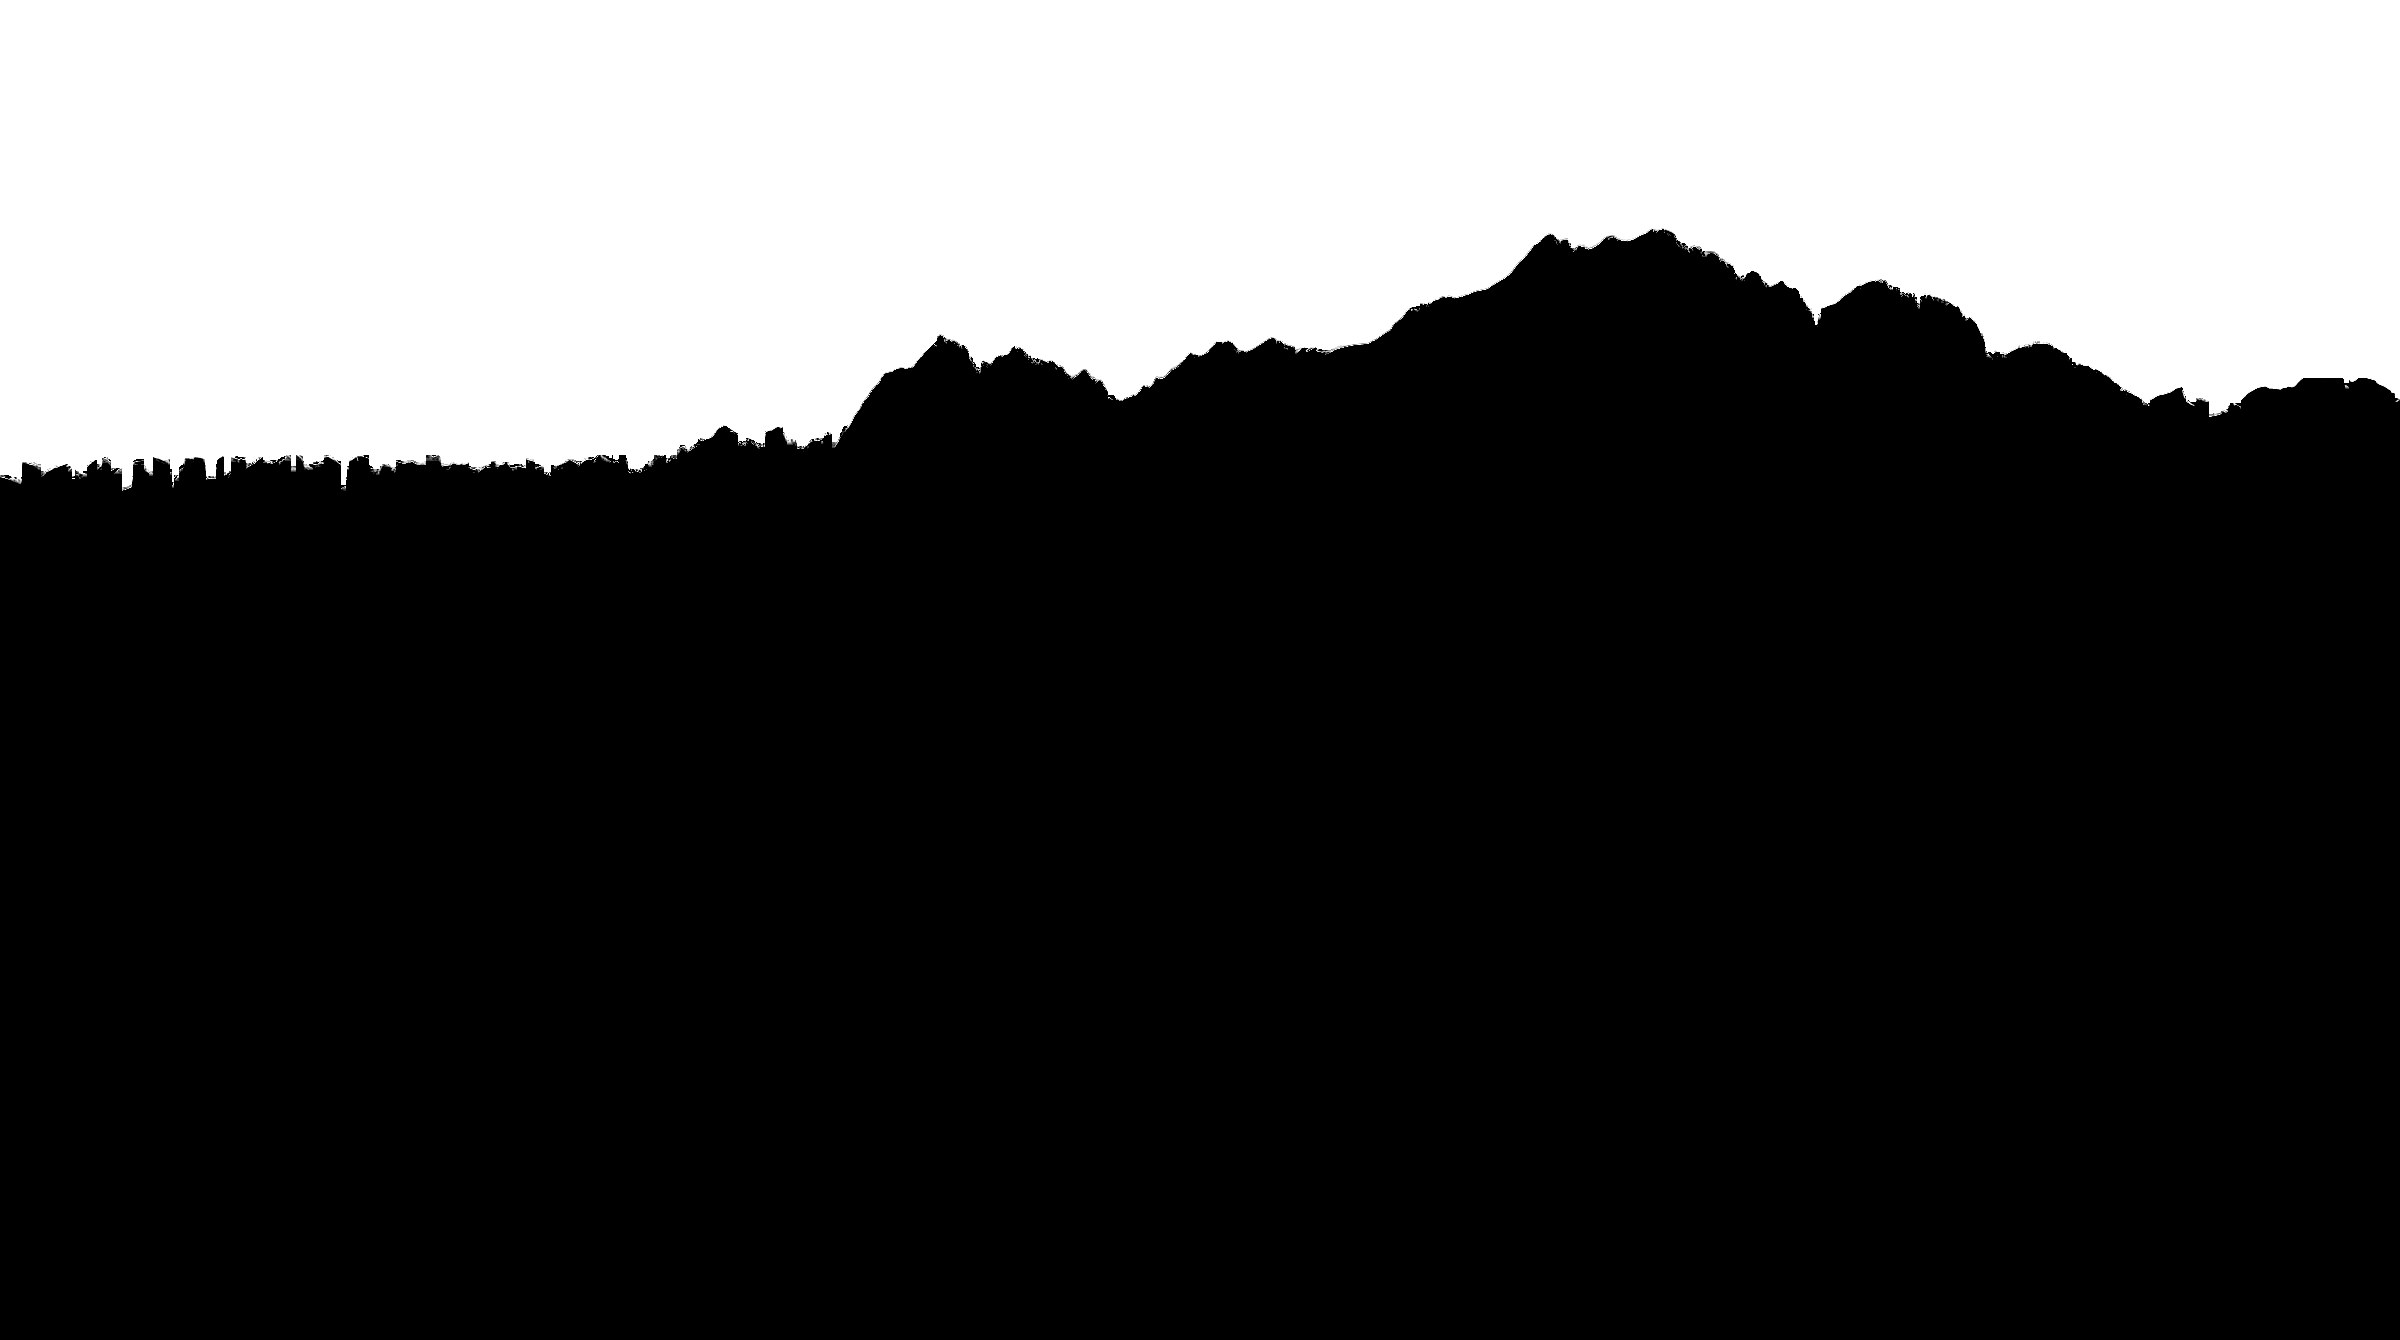
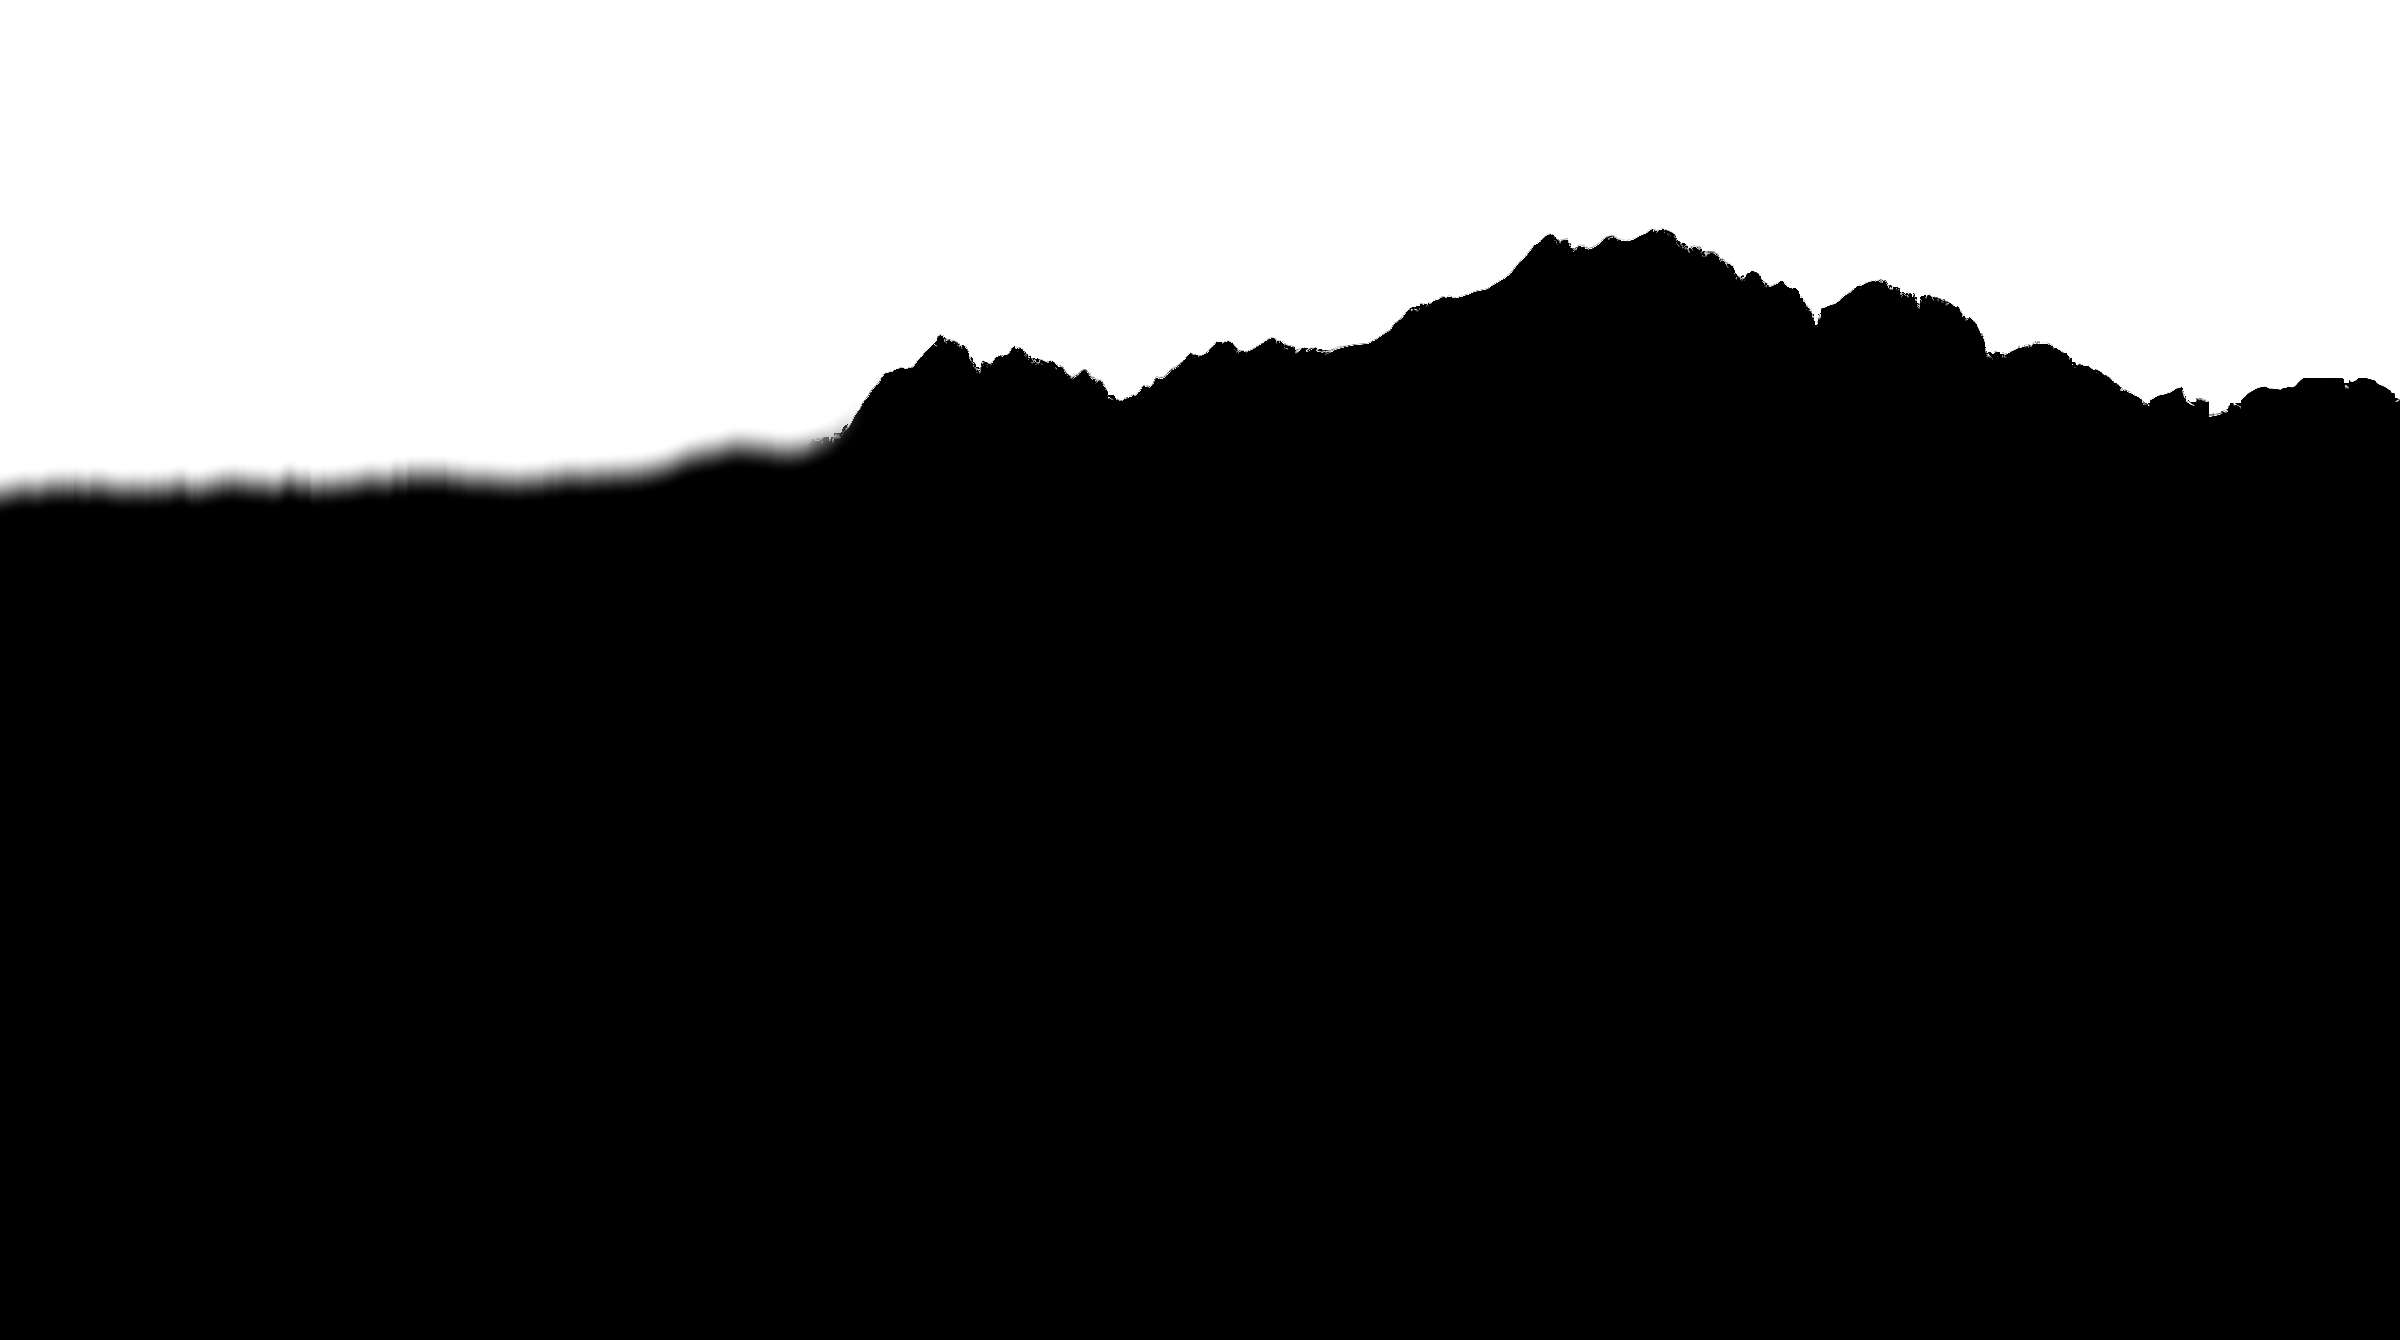
Smooth the mountain section on desktop
- Ride now dissolves into white so it hands over seamlessly to the
  white mountain section
- Mountain parallax starts as the section enters, with a short scrub lag
- Bake the foot blur into the canvas and size it to the screen instead
  of a live backdrop-filter on a 2400px layer
- Soft haze fade replaces the blocky distant ranges on the left horizon
- Solid nav tint instead of backdrop blur (GPU repaint stalls)
- Animate scent rows as whole rows; async-decode field photos

Changed region(s): [[0.0, 0.306, 0.375, 0.3978]]

diff --git a/main.js b/main.js
@@ -241,6 +241,11 @@
   tl.to('.shade--dim', { opacity: 0.16, duration: 0.6 }, 1.8);
   reveal('.chapter--3', 2.02);
 
+  // out: the last frame dissolves into white, like riding into snow mist,
+  // so the ride hands over seamlessly to the white mountain section
+  tl.to('.chapter--3', { autoAlpha: 0, y: -30, duration: 0.2, ease: 'power2.in' }, 3.05)
+    .to('.whiteout', { opacity: 1, duration: 0.4, ease: 'power1.inOut' }, 3.1);
+
   /* ---------- Rise: mountain cut-out (JPG + alpha mask composed on a canvas) ---------- */
   const mountainWrap = document.querySelector('.rise__mountain');
   const mountainCanvas = document.getElementById('mountainCanvas');
@@ -250,15 +255,52 @@
     img.onerror = reject;
     img.src = src;
   });
+  let mountainSrc = null;
+
+  // Draw the cut-out once at the size it is shown (not always 2400px), with the soft
+  // blur on its foot baked in, so scrolling only moves a ready-made layer.
+  function composeMountain() {
+    if (!mountainSrc) return;
+    const [photo, mask] = mountainSrc;
+    const dpr = Math.min(window.devicePixelRatio || 1, 2);
+    const w = Math.min(photo.naturalWidth, Math.ceil(mountainWrap.offsetWidth * dpr * 1.12));
+    if (mountainWrap.classList.contains('is-ready') && Math.abs(w - mountainCanvas.width) < w * 0.15) return;
+    const h = Math.round(w * photo.naturalHeight / photo.naturalWidth);
+    mountainCanvas.width = w;
+    mountainCanvas.height = h;
+    const mctx = mountainCanvas.getContext('2d');
+    mctx.drawImage(mask, 0, 0, w, h);
+    mctx.globalCompositeOperation = 'source-in';
+    mctx.drawImage(photo, 0, 0, w, h);
+    mctx.globalCompositeOperation = 'source-over';
+
+    if ('filter' in mctx) {
+      const soft = document.createElement('canvas');
+      soft.width = w;
+      soft.height = h;
+      const sctx = soft.getContext('2d');
+      sctx.filter = `blur(${Math.round((w / mountainWrap.offsetWidth) * 14)}px)`;
+      sctx.drawImage(mountainCanvas, 0, 0);
+      sctx.filter = 'none';
+      sctx.globalCompositeOperation = 'destination-in';
+      const fade = sctx.createLinearGradient(0, h * 0.55, 0, h * 0.88);
+      fade.addColorStop(0, 'rgba(0,0,0,0)');
+      fade.addColorStop(1, 'rgba(0,0,0,1)');
+      sctx.fillStyle = fade;
+      sctx.fillRect(0, 0, w, h);
+      mctx.drawImage(soft, 0, 0);
+    }
+    mountainWrap.classList.add('is-ready');
+  }
+
   Promise.all([loadImg('assets/img/mountain.jpg'), loadImg('assets/img/mountain-mask.png')])
-    .then(([photo, mask]) => {
-      const mctx = mountainCanvas.getContext('2d');
-      mctx.drawImage(mask, 0, 0, mountainCanvas.width, mountainCanvas.height);
-      mctx.globalCompositeOperation = 'source-in';
-      mctx.drawImage(photo, 0, 0, mountainCanvas.width, mountainCanvas.height);
-      mountainWrap.classList.add('is-ready');
-    })
+    .then((imgs) => { mountainSrc = imgs; composeMountain(); })
     .catch(() => { /* fallback <img> (white sky) stays visible */ });
+  let composeTimer;
+  window.addEventListener('resize', () => {
+    clearTimeout(composeTimer);
+    composeTimer = setTimeout(composeMountain, 250);
+  });
 
   // Park the name so its lower edge tucks behind the main peak (17% down the photo),
   // whatever the screen shape. Layout sizes only, so the scroll transforms don't skew it.
@@ -275,21 +317,26 @@
   window.addEventListener('resize', layoutRise);
   if (document.fonts) document.fonts.ready.then(layoutRise);
 
+  // One timeline from the moment the section enters (not just once it pins), with a
+  // little scrub lag so the parallax glides instead of tracking every wheel tick.
+  const riseSection = document.getElementById('rise');
+  const entry = Math.min(0.5, window.innerHeight / riseSection.offsetHeight);
+  const pinned = 1 - entry;
   const riseTl = gsap.timeline({
     defaults: { ease: 'none' },
     scrollTrigger: {
-      trigger: '#rise',
-      start: 'top top',
+      trigger: riseSection,
+      start: 'top bottom',
       end: 'bottom bottom',
-      scrub: lenis ? true : 0.5,
+      scrub: 0.6,
     },
   });
   riseTl
-    .fromTo('.rise__title', { yPercent: 140, scale: 0.94 }, { yPercent: 0, scale: 1, duration: 1, ease: 'power2.out' }, 0)
-    .fromTo('.rise__mountain', { yPercent: 7, scale: 1.1 }, { yPercent: 0, scale: 1, duration: 1.15, ease: 'power1.out' }, 0)
-    .fromTo('.rise__meta', { autoAlpha: 0, y: -10 }, { autoAlpha: 1, y: 0, duration: 0.3 }, 0.55)
-    .fromTo('.rise__copy .fade', { autoAlpha: 0, y: 24 }, { autoAlpha: 1, y: 0, duration: 0.3, stagger: 0.08, ease: 'power2.out' }, 0.75)
-    .to({}, { duration: 0.25 });
+    .fromTo('.rise__mountain', { yPercent: 18, scale: 1.12 }, { yPercent: 0, scale: 1, duration: entry + pinned * 0.6, ease: 'power1.out' }, 0)
+    .fromTo('.rise__title', { yPercent: 140, scale: 0.94 }, { yPercent: 0, scale: 1, duration: pinned * 0.6, ease: 'power2.out' }, entry)
+    .fromTo('.rise__meta', { autoAlpha: 0, y: -10 }, { autoAlpha: 1, y: 0, duration: pinned * 0.15 }, entry + pinned * 0.32)
+    .fromTo('.rise__copy .fade', { autoAlpha: 0, y: 24 }, { autoAlpha: 1, y: 0, duration: pinned * 0.18, stagger: pinned * 0.04, ease: 'power2.out' }, entry + pinned * 0.45)
+    .to({}, { duration: 0.0001 }, 1);
 
   /* ---------- Field notes ---------- */
   gsap.from('.field__head > *', {
@@ -330,9 +377,10 @@
     trigger: kitList, start: 'top 80%', once: true,
     onEnter: () => kitList.classList.add('is-in'),
   });
-  gsap.from(scents.map((r) => r.children), {
-    autoAlpha: 0, y: 28, duration: 0.9, ease: 'power3.out',
-    stagger: { each: 0.03 },
+  // whole rows, not each piece of text: 4 layers to paint instead of 20
+  gsap.from(scents, {
+    autoAlpha: 0, y: 28, duration: 0.9, ease: 'power3.out', stagger: 0.09,
+    clearProps: 'opacity,visibility,transform', // hand opacity back to the CSS hover-dim
     scrollTrigger: { trigger: kitList, start: 'top 80%', once: true },
   });
   gsap.from('.kit__bundle > *, .kit__features .feature', {
@@ -426,9 +474,10 @@
   });
 
   /* ---------- Nav goes ink over the white sections ---------- */
+  // flips once the ride has mostly dissolved to white
   ScrollTrigger.create({
-    trigger: '#rise',
-    start: 'top 40px',
+    trigger: '#ride',
+    start: () => tl.scrollTrigger.start + (tl.scrollTrigger.end - tl.scrollTrigger.start) * (3.3 / 3.5),
     endTrigger: '#field',
     end: 'bottom 40px',
     toggleClass: { className: 'nav--light', targets: nav },

diff --git a/index.html b/index.html
@@ -101,8 +101,8 @@
         <div class="rail" id="rail">
           <span class="rail__fill" id="railFill"></span>
           <button class="rail__stop is-active" data-goto="0" style="top:0%"><span class="rail__label">01</span><span class="rail__dot"></span></button>
-          <button class="rail__stop" data-goto="0.47" style="top:33.333%"><span class="rail__label">02</span><span class="rail__dot"></span></button>
-          <button class="rail__stop" data-goto="0.82" style="top:66.666%"><span class="rail__label">03</span><span class="rail__dot"></span></button>
+          <button class="rail__stop" data-goto="0.4" style="top:33.333%"><span class="rail__label">02</span><span class="rail__dot"></span></button>
+          <button class="rail__stop" data-goto="0.7" style="top:66.666%"><span class="rail__label">03</span><span class="rail__dot"></span></button>
           <span class="rail__end micro">END</span>
         </div>
 
@@ -187,6 +187,7 @@
         </article>
 
         <div class="scroll-cue micro" aria-hidden="true"><span>Scroll to ride</span><i></i></div>
+        <div class="whiteout" aria-hidden="true"></div>
       </div>
     </section>
 
@@ -205,7 +206,6 @@
           <img class="rise__fallback" src="assets/img/mountain.jpg" alt="" width="2400" height="1340">
           <canvas id="mountainCanvas" width="2400" height="1340" aria-hidden="true"></canvas>
         </div>
-        <div class="rise__blur" aria-hidden="true"></div>
         <div class="rise__fade" aria-hidden="true"></div>
 
         <div class="rise__copy">
@@ -228,7 +228,7 @@
 
       <div class="field__grid">
         <figure class="panel">
-          <div class="panel__media"><img src="assets/img/field-01.jpg" alt="Snowboarder carving hard through fresh powder under a deep blue sky" loading="lazy" style="object-position:32% center"></div>
+          <div class="panel__media"><img src="assets/img/field-01.jpg" alt="Snowboarder carving hard through fresh powder under a deep blue sky" loading="lazy" decoding="async" style="object-position:32% center"></div>
           <figcaption class="panel__cap">
             <div class="panel__top micro"><span>01</span><span>07:42 · −12°C</span></div>
             <div class="panel__bottom">
@@ -239,7 +239,7 @@
           </figcaption>
         </figure>
         <figure class="panel">
-          <div class="panel__media"><img src="assets/img/field-02.jpg" alt="Aerial view of a rider throwing spray across a wind-sculpted slope" loading="lazy" style="object-position:49% 62%"></div>
+          <div class="panel__media"><img src="assets/img/field-02.jpg" alt="Aerial view of a rider throwing spray across a wind-sculpted slope" loading="lazy" decoding="async" style="object-position:49% 62%"></div>
           <figcaption class="panel__cap">
             <div class="panel__top micro"><span>02</span><span>11:15 · −9°C</span></div>
             <div class="panel__bottom">
@@ -250,7 +250,7 @@
           </figcaption>
         </figure>
         <figure class="panel">
-          <div class="panel__media"><img src="assets/img/field-03.jpg" alt="A lone rider dropping off a corniced ridge, one track behind them" loading="lazy" style="object-position:50% 60%"></div>
+          <div class="panel__media"><img src="assets/img/field-03.jpg" alt="A lone rider dropping off a corniced ridge, one track behind them" loading="lazy" decoding="async" style="object-position:50% 60%"></div>
           <figcaption class="panel__cap">
             <div class="panel__top micro"><span>03</span><span>15:58 · −6°C</span></div>
             <div class="panel__bottom">

diff --git a/styles.css b/styles.css
@@ -121,12 +121,12 @@ button { font:inherit; color:inherit; background:none; border:0; cursor:pointer;
   display:flex; align-items:center; gap:56px;
   padding:0 var(--gutter);
   color:#fff;
-  transition:height .3s var(--ease-out), background .3s, backdrop-filter .3s, color .3s;
+  transition:height .3s var(--ease-out), background .3s, color .3s;
 }
 .nav.is-scrolled {
   height:64px;
-  background:rgba(11,14,21,.55);
-  -webkit-backdrop-filter:blur(12px); backdrop-filter:blur(12px);
+  /* solid tint instead of a backdrop blur: the blur forced a GPU repaint on every frame */
+  background:rgba(11,14,21,.86);
 }
 .nav__links { display:flex; gap:40px; }
 .nav__links a {
@@ -168,7 +168,7 @@ button { font:inherit; color:inherit; background:none; border:0; cursor:pointer;
 }
 
 /* ---------- Ride (scroll-scrubbed film) ---------- */
-.ride { position:relative; height:640vh; }
+.ride { position:relative; height:730vh; }
 .no-js .ride { height:auto; }
 .ride__stage {
   position:sticky; top:0;
@@ -188,6 +188,8 @@ button { font:inherit; color:inherit; background:none; border:0; cursor:pointer;
 .shade--right { background:linear-gradient(270deg, rgba(11,14,21,.42) 0%, rgba(11,14,21,0) 48%); }
 .shade--left  { background:linear-gradient(90deg, rgba(11,14,21,.62) 0%, rgba(11,14,21,.2) 34%, rgba(11,14,21,0) 58%); opacity:0; }
 .shade--dim   { background:var(--pf-ink); opacity:0; }
+/* the ride dissolves into white so it flows straight into the mountain section */
+.whiteout { position:absolute; inset:0; z-index:7; background:#fff; opacity:0; pointer-events:none; }
 
 .grain {
   position:absolute; inset:-50%; pointer-events:none; opacity:.08; mix-blend-mode:overlay;
@@ -342,7 +344,7 @@ button { font:inherit; color:inherit; background:none; border:0; cursor:pointer;
 
 /* ---------- Nav on light sections ---------- */
 .nav.nav--light { color:var(--pf-ink); }
-.nav.nav--light.is-scrolled { background:rgba(255,255,255,.72); }
+.nav.nav--light.is-scrolled { background:rgba(255,255,255,.92); }
 .nav.nav--light .btn-pill { border-color:rgba(11,14,21,.55); }
 .nav.nav--light .btn-pill:hover { background:rgba(11,14,21,.06); }
 .nav-open .nav { color:#fff; }
@@ -398,13 +400,7 @@ button { font:inherit; color:inherit; background:none; border:0; cursor:pointer;
 .rise__mountain.is-ready canvas { opacity:1; }
 .rise__mountain.is-ready img { visibility:hidden; }
 
-/* progressive blur + white fade so the foot of the mountain melts into the page */
-.rise__blur {
-  position:absolute; z-index:3; left:0; right:0; bottom:0; height:34%;
-  -webkit-backdrop-filter:blur(14px); backdrop-filter:blur(14px);
-  -webkit-mask-image:linear-gradient(to top, #000 35%, transparent 100%);
-  mask-image:linear-gradient(to top, #000 35%, transparent 100%);
-}
+/* white fade so the foot of the mountain melts into the page (the blur is baked into the canvas) */
 .rise__fade {
   position:absolute; z-index:4; left:0; right:0; bottom:0; height:42%;
   background:linear-gradient(to top, #fff 0%, #fff 18%, rgba(255,255,255,.82) 42%, rgba(255,255,255,0) 100%);
@@ -665,7 +661,6 @@ button { font:inherit; color:inherit; background:none; border:0; cursor:pointer;
   .rise__meta { top:calc(var(--nav-h) + 12px); left:16px; right:16px; gap:12px; }
   .rise__title { font-size:33vw; line-height:.86; top:clamp(140px, 19vh, 172px); }
   .rise__title span { display:block; }
-  .rise__blur { height:30%; }
   .rise__fade { height:52%; }
   .rise__copy .tagline { font-size:1.125rem; }
 
